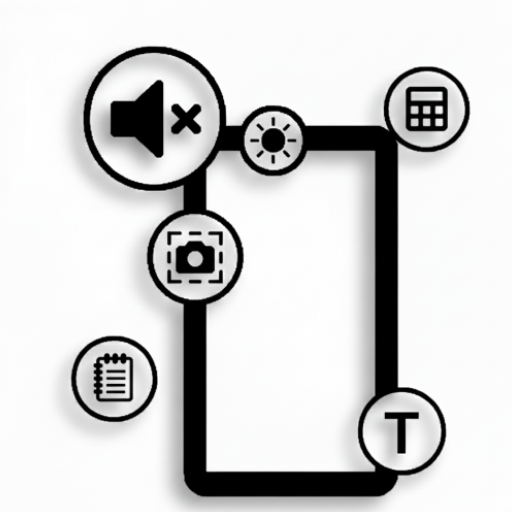
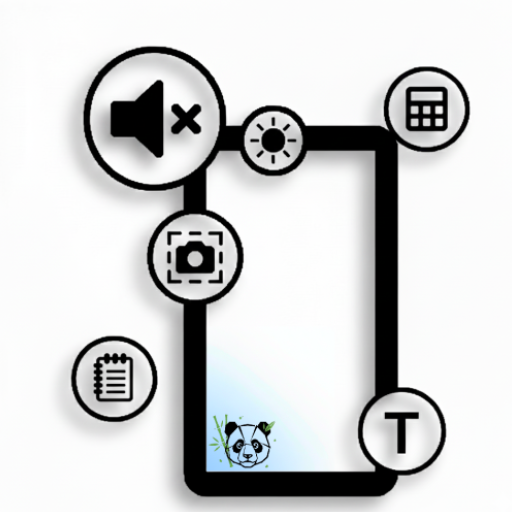
Multiple bug fixes and updates.

Changed region(s): [[0.375, 0.7188, 0.5938, 0.9375]]

diff --git a/app/src/main/java/com/example/floatingmute/ContactUsActivity.kt b/app/src/main/java/com/example/floatingmute/ContactUsActivity.kt
@@ -12,10 +12,14 @@ class ContactUsActivity : AppCompatActivity() {
     private lateinit var binding: ActivityContactUsBinding
 
     private val linkedInURL = "https://www.linkedin.com/in/mangesh-sakordekar/"
-    private val instagramURL = "https://www.instagram.com/hazardous._10/"
+    private val instagramURL = "https://www.instagram.com/panda.devs/"
     private val githubURL = "https://github.com/mangesh-sakordekar/Floating-Mute"
 
-    private val mailUrl = "mailto:mangeshsakordekar@gmail.com?subject=Floating%20Tools%20Feedback"
+    private val mailURL = "mailto:pandadevs.apps@gmail.com?subject=Floating%20Tools%20Feedback"
+
+    private val playStoreURL = "https://play.google.com/"
+
+    private val fdroidURL = "https://f-droid.org/"
 
     override fun onCreate(savedInstanceState: Bundle?) {
         super.onCreate(savedInstanceState)
@@ -46,7 +50,15 @@ class ContactUsActivity : AppCompatActivity() {
         }
 
         binding.imgMail.setOnClickListener {
-            openUrlInBrowser(mailUrl)
+            openUrlInBrowser(mailURL)
+        }
+
+        binding.imgGPlay.setOnClickListener {
+            openUrlInBrowser(playStoreURL)
+        }
+
+        binding.imgFDroid.setOnClickListener {
+            openUrlInBrowser(fdroidURL)
         }
 
         val adRequest = AdRequest.Builder().build()

diff --git a/app/src/main/java/com/example/floatingmute/SettingsActivity.kt b/app/src/main/java/com/example/floatingmute/SettingsActivity.kt
@@ -59,6 +59,9 @@ class SettingsActivity : AppCompatActivity() {
         val snapToEdgeSwitch = findViewById<Switch>(R.id.snapToEdgeSwitch)
         snapToEdgeSwitch.isChecked = prefs.getBoolean("flag_snapToEdge", true)
 
+        val bottomEdgeSwitch = findViewById<Switch>(R.id.bottomEdgeSwitch)
+        bottomEdgeSwitch.isChecked = prefs.getBoolean("flag_bottomEdge", true)
+
         updateSwitch(overlaySwitch, Settings.canDrawOverlays(this))
         updateSwitch(writeSwitch, Settings.System.canWrite(this))
 
@@ -112,6 +115,10 @@ class SettingsActivity : AppCompatActivity() {
 
         snapToEdgeSwitch.setOnCheckedChangeListener { _, isChecked ->
             prefs.edit().putBoolean("flag_snapToEdge", isChecked).apply()
+        }
+
+        bottomEdgeSwitch.setOnCheckedChangeListener { _, isChecked ->
+            prefs.edit().putBoolean("flag_bottomEdge", isChecked).apply()
         }
 
         val adRequest = AdRequest.Builder().build()

diff --git a/app/src/main/java/com/example/floatingmute/NotificationModeButtonService.kt b/app/src/main/java/com/example/floatingmute/NotificationModeButtonService.kt
@@ -139,7 +139,7 @@ class NotificationModeButtonService : Service() {
                     if (kotlin.math.abs(totalDx) < clickThreshold && kotlin.math.abs(totalDy) < clickThreshold) {
                         toggleMode() // treat as click
                     } else {
-                        if (params.y > screenHeight - 150) {
+                        if (prefs.getBoolean("flag_bottomEdge", true) && params.y > screenHeight - 250) {
                             stopSelf()
                         } else {
                             if(prefs.getBoolean("flag_snapToEdge", true)) {

diff --git a/app/src/main/java/com/example/floatingmute/ScreenOnButtonService.kt b/app/src/main/java/com/example/floatingmute/ScreenOnButtonService.kt
@@ -131,7 +131,7 @@ class ScreenOnButtonService : Service() {
                     if (kotlin.math.abs(totalDx) < clickThreshold && kotlin.math.abs(totalDy) < clickThreshold) {
                         toggleMode() // treat as click
                     } else {
-                        if (params.y > screenHeight - 150) {
+                        if (prefs.getBoolean("flag_bottomEdge", true) && params.y > screenHeight - 250) {
                             stopSelf()
                         } else {
                             if(prefs.getBoolean("flag_snapToEdge", true)) {

diff --git a/app/src/main/java/com/example/floatingmute/DNDButtonService.kt b/app/src/main/java/com/example/floatingmute/DNDButtonService.kt
@@ -130,7 +130,7 @@ class DNDButtonService : Service() {
                     if (kotlin.math.abs(totalDx) < clickThreshold && kotlin.math.abs(totalDy) < clickThreshold) {
                         toggleMode() // treat as click
                     } else {
-                        if (params.y > screenHeight - 150) {
+                        if (prefs.getBoolean("flag_bottomEdge", true) && params.y > screenHeight - 250) {
                             stopSelf()
                         } else {
                             if(prefs.getBoolean("flag_snapToEdge", true)) {

diff --git a/app/src/main/java/com/example/floatingmute/ScreenshotButtonService.kt b/app/src/main/java/com/example/floatingmute/ScreenshotButtonService.kt
@@ -225,7 +225,7 @@ class ScreenshotButtonService : Service() {
                     if (kotlin.math.abs(totalDx) < clickThreshold && kotlin.math.abs(totalDy) < clickThreshold) {
                         v.performClick()
                     } else {
-                        if (params.y > screenHeight - 150) {
+                        if (prefs.getBoolean("flag_bottomEdge", true) && params.y > screenHeight - 250) {
                             stopSelf()
                         } else {
                             if(prefs.getBoolean("flag_snapToEdge", true)) {

diff --git a/app/src/main/java/com/example/floatingmute/CountdownTimerButtonService.kt b/app/src/main/java/com/example/floatingmute/CountdownTimerButtonService.kt
@@ -270,7 +270,7 @@ class CountdownTimerButtonService : Service() {
                             // Small movement → treat as click
                             toggleStopwatch()
                         } else {
-                            if (params.y > screenHeight - 150) {
+                            if (prefs.getBoolean("flag_bottomEdge", true) && params.y > screenHeight - 250) {
                                 stopSelf()
                             } else {
                                 if(prefs.getBoolean("flag_snapToEdge", true)) {

diff --git a/app/src/main/java/com/example/floatingmute/StopwatchButtonService.kt b/app/src/main/java/com/example/floatingmute/StopwatchButtonService.kt
@@ -171,7 +171,7 @@ class StopwatchButtonService : Service() {
                             // Small movement → treat as click
                             toggleStopwatch()
                         } else {
-                            if (params.y > screenHeight - 150) {
+                            if (prefs.getBoolean("flag_bottomEdge", true) && params.y > screenHeight - 250) {
                                 stopSelf()
                             } else {
                                 if(prefs.getBoolean("flag_snapToEdge", true)) {

diff --git a/app/src/main/java/com/example/floatingmute/FloatingButtonService.kt b/app/src/main/java/com/example/floatingmute/FloatingButtonService.kt
@@ -133,7 +133,7 @@ class FloatingButtonService : Service() {
                         // Small movement → treat as click
                         toggleMute(button as ImageButton)
                     } else {
-                        if (params.y > screenHeight - 150){
+                        if (prefs.getBoolean("flag_bottomEdge", true) && params.y > screenHeight - 250){
                             stopSelf()
                         }
                         else {

diff --git a/app/src/main/java/com/example/floatingmute/FlashlightButtonService.kt b/app/src/main/java/com/example/floatingmute/FlashlightButtonService.kt
@@ -151,7 +151,7 @@ class FlashlightButtonService : Service() {
                         toggleFlashlight()
                     } else {
                         // Snap to nearest horizontal edge
-                        if (params.y > screenHeight - 150){
+                        if (prefs.getBoolean("flag_bottomEdge", true) && params.y > screenHeight - 250){
                             stopSelf()
                         }
                         else {

diff --git a/app/src/main/java/com/example/floatingmute/BrightnessButtonService.kt b/app/src/main/java/com/example/floatingmute/BrightnessButtonService.kt
@@ -144,7 +144,7 @@ class BrightnessButtonService : Service() {
                         toggleBrightness()
                     } else {
 
-                        if (params.y > screenHeight - 150){
+                        if (prefs.getBoolean("flag_bottomEdge", true) && params.y > screenHeight - 250){
                             stopSelf()
                         }
                         else {

diff --git a/app/src/main/java/com/example/floatingmute/FontSizeButtonService.kt b/app/src/main/java/com/example/floatingmute/FontSizeButtonService.kt
@@ -143,7 +143,7 @@ class FontSizeButtonService : Service() {
                         toggleFontSize()
                     } else {
 
-                        if (params.y > screenHeight - 150){
+                        if (prefs.getBoolean("flag_bottomEdge", true) && params.y > screenHeight - 250){
                             stopSelf()
                         }
                         else {
